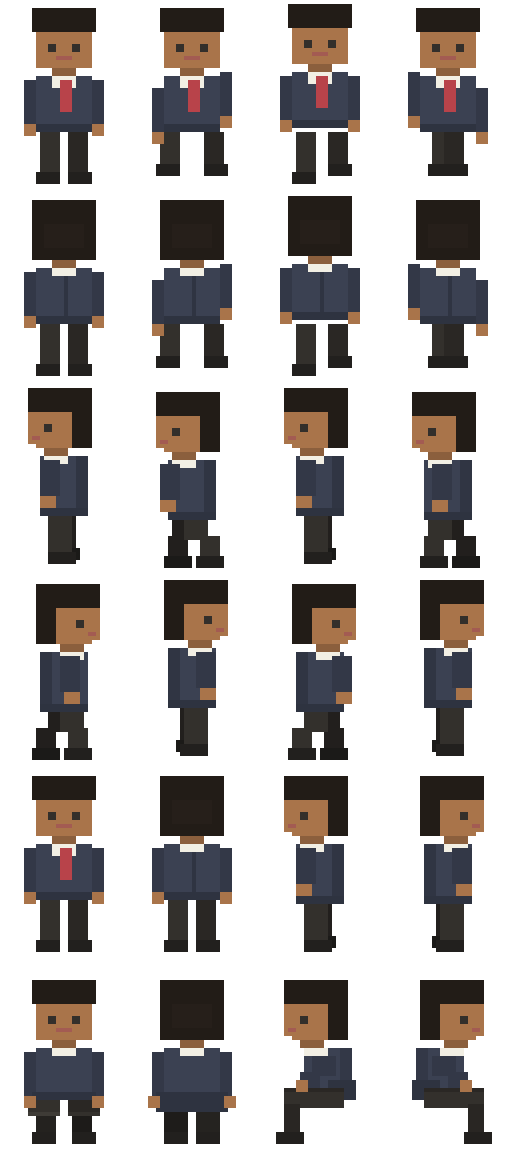
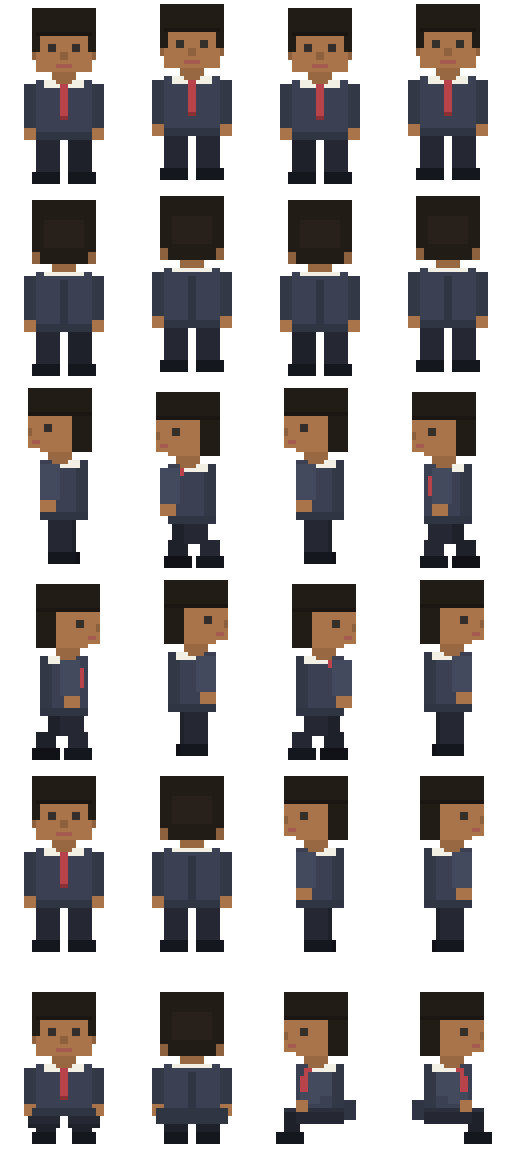
Redraw everyone from the new character art
The thirteen sprites per person now come from art/CharacterSprites, packed into
the same 4x6 sheets by the new sheets.py rather than by hand. The art is better
in the places the office actually shows: glasses survive into the side and
sitting poses instead of only the front one, and collars and ties are drawn in
the seated frames, which are most of what you see at a desk.

The sheet order is taken from the source manifest and is deliberately not
sorted. A board stores which character somebody uses as an index into these
files, so a reorder would quietly hand everyone someone else's face; every
index still carries the same hair and shirt as before.

diff --git a/art/build/sheets.py b/art/build/sheets.py
@@ -1,0 +1,48 @@
+"""Pack each character's thirteen sprites into the one sheet the app draws them from.
+
+Thirteen files each is 221 requests; as one 4x6 sheet per character it is 17, and they compress
+better sharing a palette. The grid, left to right and top to bottom:
+
+    row 0  walk front (4 frames)      row 3  walk right (4)
+    row 1  walk back  (4)             row 4  idle: front, back, left, right
+    row 2  walk left  (4)             row 5  sit:  front, back, left, right
+
+which is what `.ofc-spr` in index.html indexes with --cx and --cy.
+
+The order comes from the source manifest and must not be sorted or otherwise tidied: a board
+stores which character somebody uses as a number into these sheets, so reordering them silently
+gives eighteen people someone else's face. It is also the reason the sheets ship numbered and
+their source does not ship at all — the source is one file per developer, named after them, and
+this repository is public.
+"""
+import os, json
+from PIL import Image
+HERE=os.path.dirname(os.path.abspath(__file__)); ART=os.path.dirname(HERE)
+SRC=os.path.join(ART,'CharacterSprites')
+FULL=os.path.join(SRC,'full')
+if not os.path.isdir(FULL):
+    raise SystemExit('character source not found at '+FULL+
+                     ' — it is gitignored, see the README')
+
+W,H,COLS,ROWS=128,192,4,6
+WALK=['-walk4','-back-walk4','-walk4-left','-walk4-right']
+IDLE=['','-back','-left','-right']
+SIT =['-sit-front','-sit-back','-sit-left','-sit-right']
+
+names=list(json.load(open(os.path.join(SRC,'_chars.json'),encoding='utf-8')))
+def grab(n,suf,want):
+    p=os.path.join(FULL,n+suf+'.png')
+    if not os.path.exists(p): raise SystemExit('missing '+os.path.basename(p))
+    im=Image.open(p).convert('RGBA')
+    assert im.size==want,(os.path.basename(p),im.size,'expected',want)
+    return im
+
+tot=0
+for i,n in enumerate(names):
+    sheet=Image.new('RGBA',(W*COLS,H*ROWS),(0,0,0,0))
+    for r,suf in enumerate(WALK): sheet.paste(grab(n,suf,(W*4,H)),(0,r*H))
+    for c,suf in enumerate(IDLE): sheet.paste(grab(n,suf,(W,H)),(c*W,4*H))
+    for c,suf in enumerate(SIT):  sheet.paste(grab(n,suf,(W,H)),(c*W,5*H))
+    f=os.path.join(ART,'c%02d.png'%i)
+    sheet.save(f,optimize=True); tot+=os.path.getsize(f)
+print(f'{len(names)} sheets of {W*COLS}x{H*ROWS}, {round(tot/1024)} KB in total')

diff --git a/art/build/README.md b/art/build/README.md
@@ -20,6 +20,7 @@ python plates.py         # 1535 -> 1536 wide, then -> ../office.webp and ../offi
 python measure.py        # finds the chairs, the seats and the screens -> chairs.json
 python grid6.py          # walk grid, seats, destinations -> office-layout.json
 python apply-layout.py   # writes that into index.html's `const L=` line
+python sheets.py         # the thirteen sprites per character -> ../cNN.png  (independent)
 ```
 
 A few seconds end to end and safe to re-run: the four are deterministic, so an unchanged
@@ -27,8 +28,8 @@ pipeline reproduces both plates and `index.html` byte for byte. Worth checking w
 `git status` afterwards — if something shows modified when you only meant to change one number,
 something upstream moved.
 
-The character sheets in `art/cNN.png` are not built here. Their source is one file per developer
-named after them, which is why it is gitignored and the shipped copies are numbered.
+`sheets.py` is independent of the other four and only needs re-running when the character art
+changes.
 
 ## What each step is actually doing
 
@@ -46,6 +47,13 @@ pushed out to the outline round the seat and the castors under it — and the si
 inside the cushion's own rows, or the desk's dark front edge, which runs the full width of the
 desk, swallows the chair whole. Feet go 21px below the top of the cushion, which is what leaves
 a head, a collar and the shoulders clear of the backrest.
+
+**`sheets.py`** — packs each character's thirteen sprites into the one 4x6 sheet `.ofc-spr`
+indexes with `--cx` and `--cy`. **The order comes from the source manifest and must not be
+sorted**: a board stores which character somebody uses as a number into these sheets, so
+reordering them silently gives everyone someone else's face. It is also why the sheets ship
+numbered and their source does not ship at all — the source is one file per developer, named
+after them, and this repository is public.
 
 **`grid6.py`** — the walk grid, at 8px cells. A cell is walkable only when *every* pixel in it
 is floor; the older ">=55% floor" rule let people walk over desks and counters.
